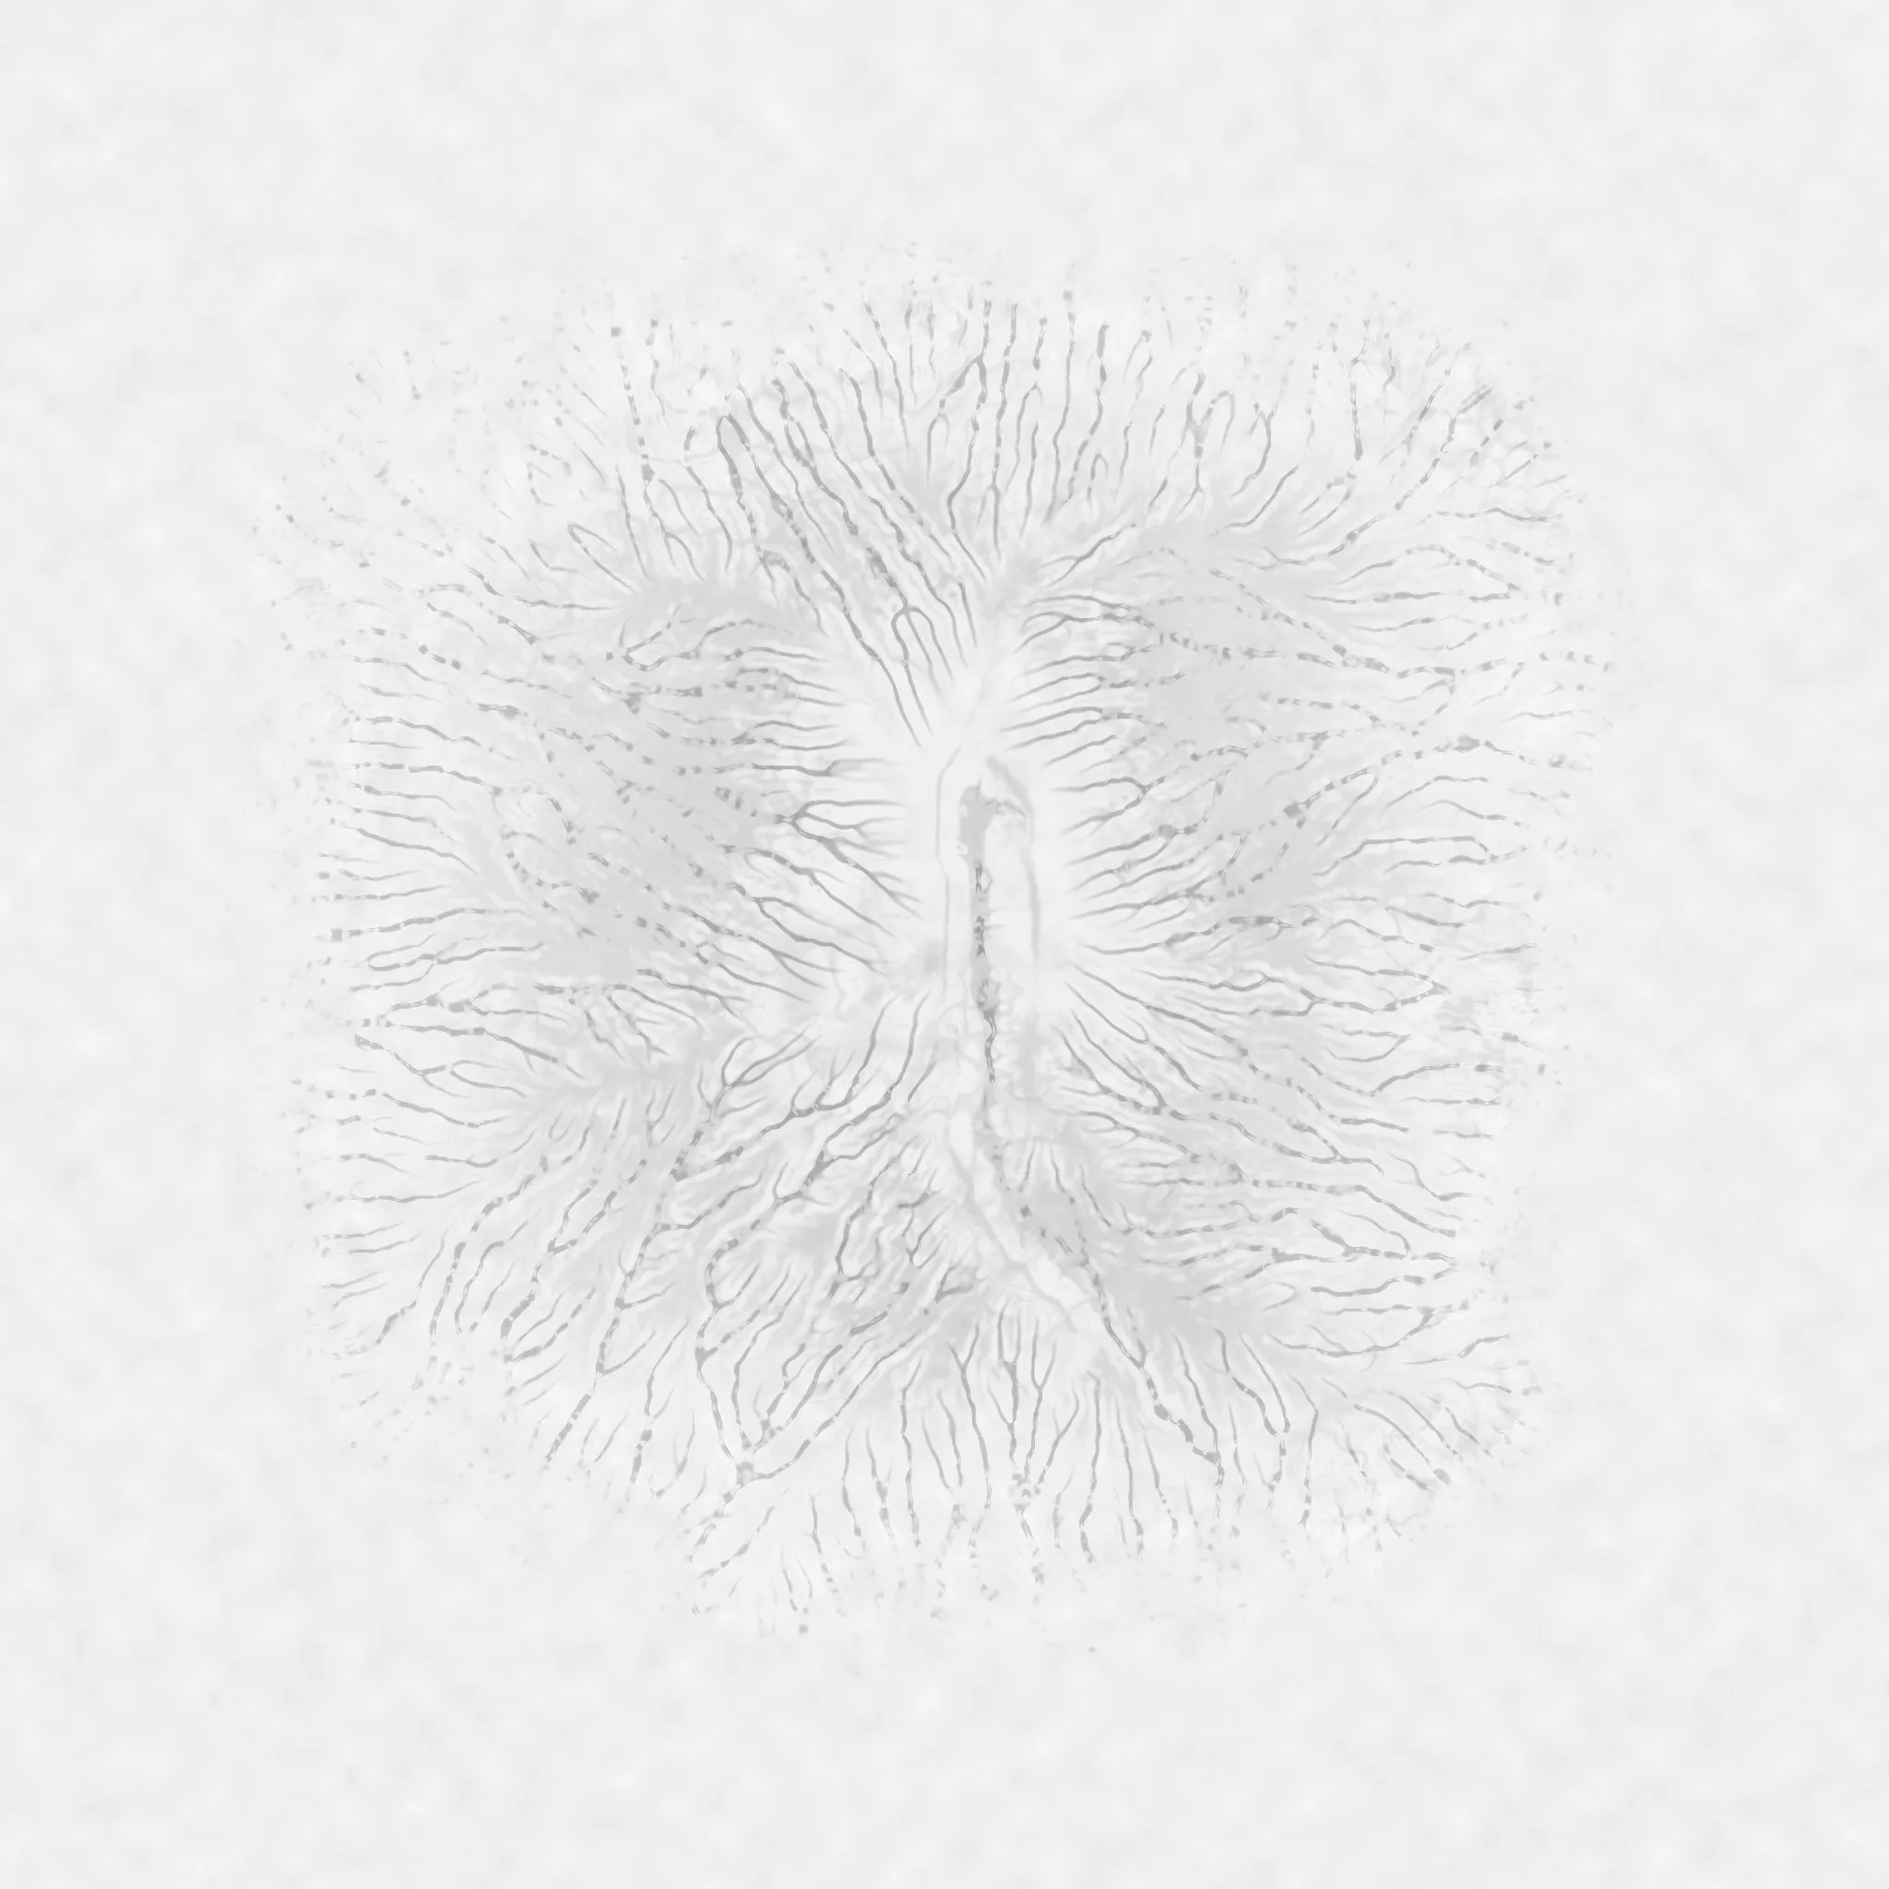
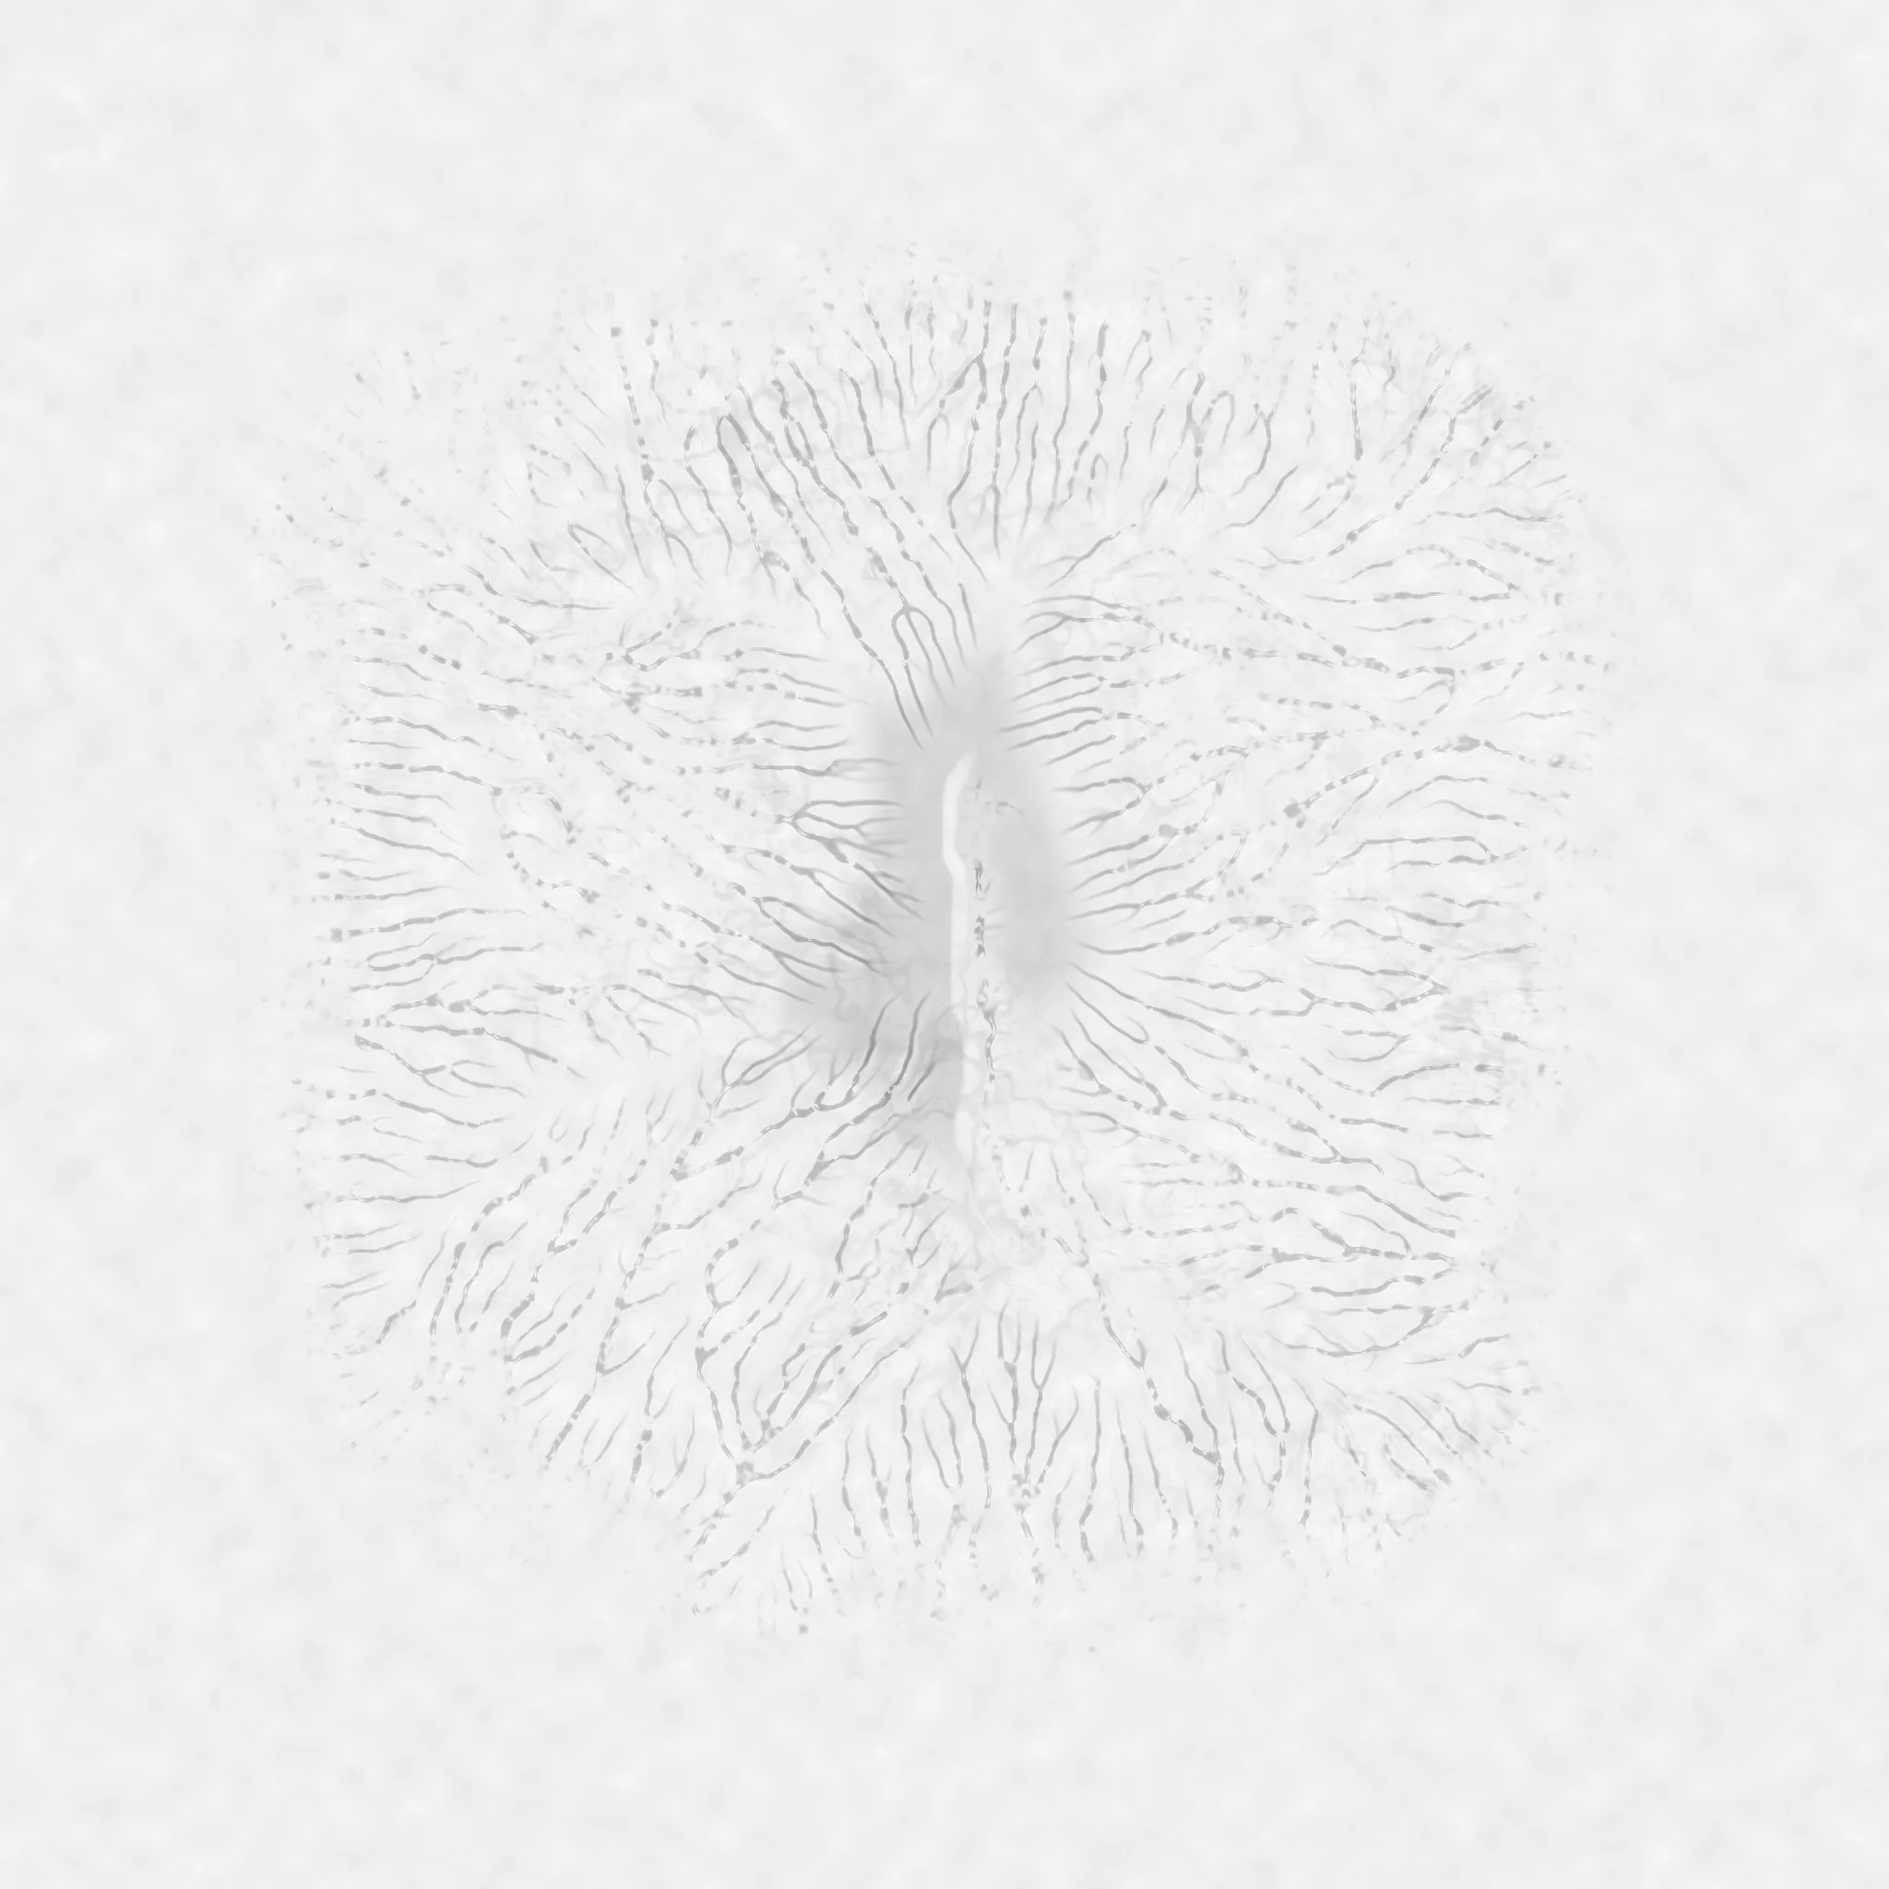
cpolar_v2 hero: fix the triplanar blend, the key light, the fog and the snow line
From a five-lens panel review where every finding was checked against the source
before it was allowed onto the list.

THE SATIN LOOK WAS A BUG IN MY SHADER. The three triplanar samples are tangent-space
normals - their z points out of the flat texture, not along a world axis - and I was
summing them raw. This map's blue channel is very nearly the constant 0.298, so the
sum added the SAME fixed tilt to every normal on the mountain. A constant tilt across
a whole surface is what makes it look like brushed fabric, which is what four separate
judgements called it. Each sample is now rotated onto the axis it was projected along
with the component pointing back at the projector dropped.

THE KEY LIGHT WAS OVER THE CAMERA'S SHOULDER - 39 degrees off axis, so nothing on the
mountain ever had a shadow side. Moved to 72 degrees, hard from screen left. The rim
came down from 0.62 to 0.28 because it was a second light aimed straight into the
flank the key is meant to darken. Shadow maps switched on, which were pointless before
the light moved.

THE FOG NEVER TOUCHED THE MOUNTAIN. Every visible surface sits 312 to 451 units away;
fog started at 470. Distance cost nothing. Now 300 to 820.

THE NEAR GROUND WAS THE PALEST THING IN THE FRAME - brightness 183 at the foot against
97 at the farthest mass, which is distance running backwards. Two CSS veils and two
cloud bands were all painting it white; all four came down.
[…]

diff --git a/cpolar_v2/index.html b/cpolar_v2/index.html
@@ -40,14 +40,21 @@ canvas#scene{position:fixed;inset:0;width:100vw;height:100vh;display:block;z-ind
    the page colour, so the mountain has no foot - it goes into weather and stops. */
 .veil{position:fixed;inset:0;z-index:1;pointer-events:none;
   background:linear-gradient(180deg,rgba(238,242,245,.26) 0%,rgba(238,242,245,0) 30%,
-    rgba(238,242,245,.04) 66%,rgba(238,242,245,.20) 84%,rgba(238,242,245,.46) 100%)}
+    rgba(238,242,245,.04) 66%,rgba(238,242,245,.10) 84%,rgba(238,242,245,.24) 100%)}
 /* And the same across, holding the left of the frame clear. The mountain was running
    in behind the paragraph and the application row, so the copy sat on shifting tone
    instead of on the page - and the far shoulder over there was the one place the mesh
    still showed a long straight ramp. Both problems end at the same gradient. */
 .veil-x{position:fixed;inset:0;z-index:1;pointer-events:none;
-  background:linear-gradient(90deg,rgba(238,242,245,1) 0%,rgba(238,242,245,.97) 30%,
-    rgba(238,242,245,.72) 44%,rgba(238,242,245,.24) 56%,rgba(238,242,245,0) 68%)}
+  /* Holding full opacity to 51% and then dropping to .34 by 60% draws a hard vertical
+     line at x=734: the eye reads the boundary between fully-hidden and partly-visible
+     as an edge however smooth the maths is. The ramp starts much earlier now. It costs
+     nothing to start it early - the mountain's own left edge is around x=750, so from
+     35% to 50% there is no terrain there to reveal. Zero lands at x=1008 and the summit
+     is at x=1035, so not one pixel of this touches the peak. */
+  background:linear-gradient(90deg,rgba(238,242,245,1) 0%,rgba(238,242,245,1) 35%,
+    rgba(238,242,245,.85) 45%,rgba(238,242,245,.45) 54%,
+    rgba(238,242,245,.15) 62%,rgba(238,242,245,0) 70%)}
 @media (max-width:900px){ .veil-x{background:linear-gradient(90deg,
     rgba(238,242,245,.92) 0%,rgba(238,242,245,.55) 40%,rgba(238,242,245,0) 78%)} }
 .wrap{position:relative;z-index:2}
@@ -152,6 +159,8 @@ const renderer = new THREE.WebGLRenderer({ canvas, antialias:true, alpha:true })
 renderer.setPixelRatio(Math.min(devicePixelRatio, 1.75));
 renderer.setSize(innerWidth, innerHeight);
 renderer.outputColorSpace = THREE.SRGBColorSpace;
+renderer.shadowMap.enabled = true;
+renderer.shadowMap.type = THREE.PCFSoftShadowMap;
 renderer.toneMapping = THREE.ACESFilmicToneMapping;
 // 1.0 with the lights below drove the whole mountain to white - snow and rock landed
 // on the same value and the shape disappeared. Rock has to sit in the mid greys or
@@ -159,10 +168,12 @@ renderer.toneMapping = THREE.ACESFilmicToneMapping;
 renderer.toneMappingExposure = 0.70;
 
 const scene = new THREE.Scene();
-// The summit is 363 units from this camera and the far ridge about 554. Fog starting
-// at 250 put the summit past the halfway point of the ramp and bleached it out; it has
-// to start beyond the peak so only the ground BEHIND the peak recedes.
-scene.fog = new THREE.Fog(0xe6ecf1, 470, 1050);
+// Every visible surface of this mountain sits between 312 and 451 units away, so fog
+// starting at 470 contributed exactly nothing and distance cost nothing at all. 300 to
+// 820 brackets the mountain's own depth: the summit lifts about 11 levels, the far
+// ridge 6, the near foot 3 - ordered by distance, which is what makes depth read.
+// (An older comment here claimed 363 and 554. Both were wrong. These are measured.)
+scene.fog = new THREE.Fog(0xe6ecf1, 300, 820);
 
 // The shot. The summit of this mesh is at world (15.4, 58.4, -2.4).
 //   - the camera sits BELOW it, so the frame looks UP at the peak. The first version
@@ -178,11 +189,28 @@ camera.lookAt(AIM);
 // light: a hard raking key from the left so one face is lit and the other falls into
 // shadow - the ridge between them is what gives a mountain its shape. Cool sky fill,
 // cold rim from behind to separate the summit from the haze.
-scene.add(new THREE.HemisphereLight(0xf6fafd, 0x7c92a8, 0.58));
+// The key sat 39 degrees off the camera axis - a light shining over your own shoulder,
+// which gives nothing a shadow side. At 72 degrees, hard from screen left, every ridge
+// gets a lit face and a dark one, and the shadows fall away from the copy. The rim had
+// to come down with it: at 0.62 it was a second light aimed straight into the flank the
+// key is trying to darken, filling the new shadow back in as fast as it appeared. The
+// hemisphere ground colour was doing the same job from below.
+scene.add(new THREE.HemisphereLight(0xf0f6fc, 0xb9c6d4, 0.34));
 const key = new THREE.DirectionalLight(0xfffdf6, 1.90);
-key.position.set(-380, 150, 210);
+key.position.set(-470, 210, -60);
+// Worth switching on only now the key has moved; with the old position every shadow
+// fell behind the thing casting it. 2048 is sized to the mesh - one quad is 1.54 world
+// units, so this is about four shadow texels per quad. 4096 would double a per-frame
+// cost for detail the geometry does not carry.
+key.castShadow = true;
+key.shadow.mapSize.set(2048, 2048);
+key.shadow.camera.left = -420; key.shadow.camera.right = 420;
+key.shadow.camera.top  =  420; key.shadow.camera.bottom = -420;
+key.shadow.camera.near =    1; key.shadow.camera.far = 1600;
+key.shadow.bias = -0.0002;
+key.shadow.normalBias = 0.6;
 scene.add(key);
-const rim = new THREE.DirectionalLight(0xb6cee4, 0.62);
+const rim = new THREE.DirectionalLight(0xb6cee4, 0.28);
 rim.position.set(330, 130, -320);
 scene.add(rim);
 
@@ -203,9 +231,15 @@ new GLTFLoader().load('./assets/banff_terrain.glb', (g) => {
   const detN = tex.load('./assets/rock_detail_n.webp');
   const detC = tex.load('./assets/rock_detail_c.webp');
   detN.wrapS = detN.wrapT = detC.wrapS = detC.wrapT = THREE.RepeatWrapping;
+  // Every surface in this shot is seen at a grazing angle, which is exactly the case
+  // trilinear filtering blurs worst. Measured as the largest single gain of anything
+  // tried on this material.
+  const MA = renderer.capabilities.getMaxAnisotropy();
+  detN.anisotropy = detC.anisotropy = alb.anisotropy = nrm.anisotropy = rgh.anisotropy = MA;
 
   g.scene.traverse((o) => {
     if (!o.isMesh) return;
+    o.castShadow = true; o.receiveShadow = true;
     o.geometry.computeVertexNormals();
     const mat = new THREE.MeshStandardMaterial({
       map: alb, normalMap: nrm, roughnessMap: rgh,
@@ -231,7 +265,7 @@ new GLTFLoader().load('./assets/banff_terrain.glb', (g) => {
       sh.uniforms.uDetN   = { value: detN };
       sh.uniforms.uDetC   = { value: detC };
       sh.uniforms.uDScale = { value: 0.022 };   // one tile per ~45 world units
-      sh.uniforms.uDAmt   = { value: 0.85 };    // how hard the detail bends the normal
+      sh.uniforms.uDAmt   = { value: 1.80 };    // how hard the detail bends the normal
       sh.uniforms.uDCol   = { value: 0.80 };    // how much of its grain reaches colour
 
       sh.vertexShader = sh.vertexShader
@@ -280,7 +314,19 @@ vec3 triBlend(vec3 n){
     vec3 dX = texture2D(uDetN, p.zy).xyz * 2.0 - 1.0;
     vec3 dY = texture2D(uDetN, p.xz).xyz * 2.0 - 1.0;
     vec3 dZ = texture2D(uDetN, p.xy).xyz * 2.0 - 1.0;
-    vec3 dn = dX * bw.x + dY * bw.y + dZ * bw.z;
+    // Each of the three samples is a TANGENT-space normal: its z points out of the
+    // flat texture, not along any world axis. Summing them raw treated that z as a
+    // world direction, and since this map's blue channel is very nearly the constant
+    // 0.298, the sum added the SAME fixed push to every normal on the mountain. A
+    // constant tilt across a whole surface is what makes it look like brushed satin,
+    // which is what the render kept being called. Rotating each sample onto the axis
+    // it was projected along, and dropping the component that points back at the
+    // projector, removes the constant - and most of the strength with it, which is
+    // why uDAmt more than doubles below.
+    vec3 nX = vec3(0.0,  dX.y, dX.x);
+    vec3 nY = vec3(dY.x, 0.0,  dY.y);
+    vec3 nZ = vec3(dZ.x, dZ.y, 0.0 );
+    vec3 dn = nX * bw.x + nY * bw.y + nZ * bw.z;
     vec3 vdn = (viewMatrix * vec4(dn, 0.0)).xyz;
     normal = normalize(normal + vdn * uDAmt);
   }`);
@@ -343,20 +389,31 @@ const clouds = new THREE.Group();
 // foot itself spans about 40 of them.
 const BANKS = [
   // behind the summit, so the peak has something to stand against instead of bare sky
-  {w:2200,h:240, x:  40, y: 44, z:-620, o:.46, d:.012, soft:false},
+  {w:2200,h:240, x:  40, y: 44, z:-620, o:.46, d:-.009, soft:false},
   {w:1700,h:200, x:-120, y: 16, z:-420, o:.36, d:.018, soft:true },
   // the sea, lying across the foot of the mountain and nothing above it
-  {w:1600,h: 78, x:  60, y:-12, z: 210, o:.72, d:.030, soft:false},
-  {w:2000,h:105, x:-190, y:-16, z:  50, o:.76, d:.038, soft:false},
+  // These two were lifting the nearest slope to brightness 183 while the farthest mass
+  // sat at 97 - front paler than back, which is distance running backwards, and the
+  // main reason the picture read flat. Both agents had to come down; halving the cloud
+  // alone still left the foot near 163.
+  {w:1600,h: 78, x:  60, y:-30, z: 210, o:.34, d:.030, soft:false},
+  {w:2000,h:105, x:-190, y:-34, z:  50, o:.30, d:.038, soft:false},
   {w:2600,h:140, x: 180, y:-20, z:-140, o:.70, d:.046, soft:true },
   {w:3000,h:170, x:-260, y:-26, z:-330, o:.55, d:.054, soft:true },
+  // A thin collar that actually crosses the peak. Every other bank in front of the
+  // mountain sits at or below its foot, and everything at mid-height is BEHIND the
+  // mountain and hidden by it - the cloud material stops writing depth but still tests
+  // it. 34 units tall draws a collar of about 165px; 70 would be a slab across nearly
+  // 40% of a frame whose whole rule is restraint.
+  {w:1500,h: 34, x: -40, y: 40, z: 120, o:.34, d:.021, soft:true },
 ];
 BANKS.forEach(b => {
   const m = new THREE.Mesh(
     new THREE.PlaneGeometry(b.w, b.h),
     new THREE.MeshBasicMaterial({ map: cloudTex(b.soft), transparent:true, depthWrite:false, opacity:b.o })
   );
-  m.position.set(b.x, b.y, b.z); m.userData.d = b.d; m.userData.x0 = b.x;
+  m.position.set(b.x, b.y, b.z); m.userData.d = b.d * 60; m.userData.x0 = b.x;
+  m.userData.ph = Math.random() * 6.283; m.userData.o = b.o;
   clouds.add(m);
 });
 scene.add(clouds);
@@ -382,14 +439,24 @@ addEventListener('resize', () => {
 });
 
 const clock = new THREE.Clock();
+let lastT = 0;
 (function frame(){
   requestAnimationFrame(frame);
   const t = clock.getElapsedTime();
+  const dt = Math.min(t - lastT, 0.1); lastT = t;
   if (terrain) {
     terrain.rotation.y = 0.06 + Math.sin(t * 0.045) * 0.012;   // a slow breath, not a spin
     terrain.position.y = -sy * 0.05;
   }
-  clouds.children.forEach(c => { c.position.x += c.userData.d; if (c.position.x > c.userData.x0 + 700) c.position.x = c.userData.x0 - 700; });
+  // The drift used to advance once per FRAME, so it ran at double speed on a 120Hz
+  // screen and crawled when the tab dropped to 15fps. Per second now. The slow breathing
+  // of opacity stops six banks marching in step at one fixed brightness.
+  clouds.children.forEach(c => {
+    c.position.x += c.userData.d * dt;
+    if (c.position.x > c.userData.x0 + 700) c.position.x = c.userData.x0 - 700;
+    if (c.position.x < c.userData.x0 - 700) c.position.x = c.userData.x0 + 700;
+    c.material.opacity = c.userData.o * (0.72 + 0.28 * Math.sin(t * 0.045 + c.userData.ph));
+  });
   camera.position.y = 26 + Math.sin(t * 0.06) * 1.2;
   camera.lookAt(AIM.x, AIM.y - sy * 0.012, AIM.z);
   renderer.render(scene, camera);
